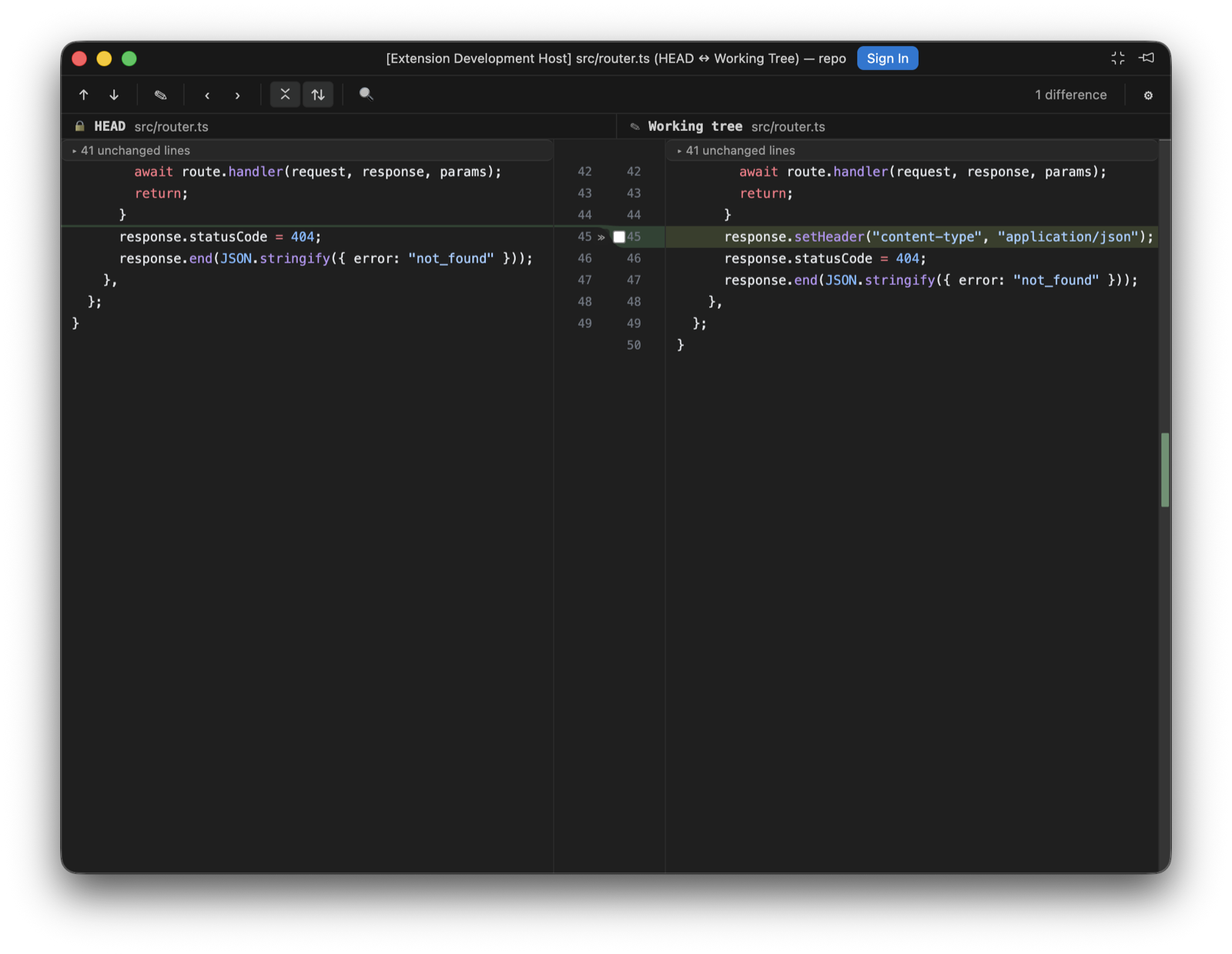
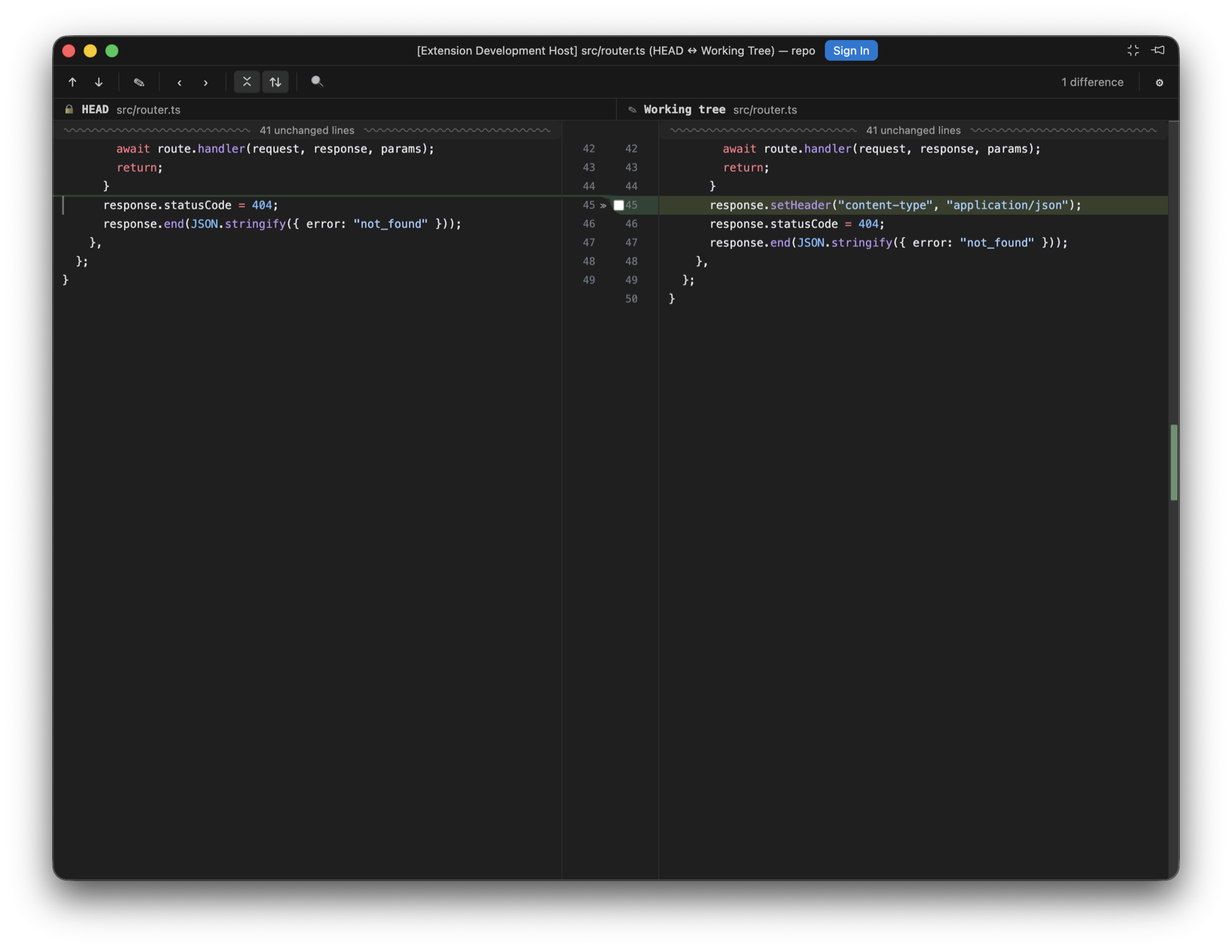
docs: recapture the diff viewer screenshots on 0.10.0
The settings, unified and working-tree windows showed the old "N unchanged
lines" fold row; all three are recaptured from 0.10.0 with the wavy separators
and the carets. The hover and fold-row figures move from bare webview crops to
the same floating-window style, and the changelog tool's default CHANGELOG path
follows the repository's rename to porcelain.

Changed region(s): [[0.0312, 0.0308, 0.9688, 0.9546], [0.5, 0.3079, 0.5312, 0.3387]]

diff --git a/changelog.html b/changelog.html
@@ -7,7 +7,7 @@ title: Changelog
 <p>Every release, newest first. Versions follow SemVer, and until 1.0 a minor version may still rename a setting or a command. The <code>.vsix</code> for each version is attached to its GitHub release. Porcelain took its identity at 0.7.0 and its name at 0.8.0; the releases before that are the fork's lineage as BranchShift and JetGit Plus, kept below the fold.</p>
 <div class="cl-links"><span class="cl-now">Current <b>0.10.0</b> · 15 September 2026</span><a href="https://marketplace.visualstudio.com/items?itemName=sultanofcardio.porcelain">Marketplace<span>↗</span></a><a href="https://github.com/sultanofcardio/porcelain/releases">Releases and .vsix downloads<span>↗</span></a><a href="https://github.com/sultanofcardio/porcelain/blob/main/CHANGELOG.md">CHANGELOG.md on main<span>↗</span></a></div>
 <div class="cl-timeline">
-<div class="cl-release latest"><span class="cl-dot"></span><div class="cl-card"><div class="cl-head"><span class="cl-ver">0.10.0</span><span class="badge gold">Latest</span><time>15 September 2026</time></div><div class="cl-kind added">Added</div><ul><li><strong>A caret in every diff pane.</strong> the porcelain diff surface now carries a caret on each side, read-only revisions included. It starts on the file&#x27;s first changed line, moves to wherever you click, and walks with the arrow keys, Home, End and the page keys, in the split panes and the unified view alike. A vertical move steps over a collapsed run and lands on the first visible line past it, the way IntelliJ&#x27;s caret passes a fold; the run stays collapsed (#3)</li><li><strong>A diff opens on its first change.</strong> a first difference below the fold is scrolled into view when the file opens, the way the change stepper would bring it. This happens once per document, so a reload of the diff on screen, quiet or asked for at the banner, keeps both the view and the carets where they were (#3)</li><li><strong>The diff viewer follows <code>files.autoSave</code>.</strong> the editable working-tree side now saves the way the setting says, in all four of its modes: <code>afterDelay</code> writes once the buffer has been quiet for <code>files.autoSaveDelay</code>, <code>onFocusChange</code> writes when the editor loses focus, <code>onWindowChange</code> when the window does, and <code>off</code> keeps Cmd+S as the only way to disk. Flipping the setting takes effect in an open diff. Autosave never writes while an IME composition is in flight, and it pauses while the changed-on-disk banner is asking which copy wins; a keystroke typed while a write is in flight stays dirty and goes out with the next save. The dirty dot keeps its meaning and its tooltip names the mode, and a save that fails says so in a banner instead of retrying on its own (#3)</li><li><strong>Hover and go to definition in the diff viewer.</strong> resting the pointer on a symbol shows the language server&#x27;s hover, rendered from its markdown the way the editor&#x27;s own hover widget renders it, with fenced code coloured. Holding Cmd (Ctrl elsewhere) underlines a symbol that has a definition, and a click on it, or F12 from the caret, opens the definition in the native editor, with a pick when there are several; Cmd+K Cmd+I shows the hover at the caret. <code>editor.hover.enabled</code> and <code>editor.hover.delay</code> apply. The working tree is asked about as the file on disk, history and index sides through their <code>porcelain:</code> documents, where the built-in JSON, CSS and HTML servers answer and TypeScript&#x27;s does not. A side with unsaved edits stays quiet until the next save, and says so once when autosave is off (#3)<figure class="cl-shot"><img src="assets/images/diff-hover.png" alt="The hover in a diff: the TypeScript server&#x27;s signature and docs, with the go-to-definition hint at the foot."><figcaption>The hover in a diff: the TypeScript server&#x27;s signature and docs, with the go-to-definition hint at the foot.</figcaption></figure></li><li><strong>Fold rows name their scope.</strong> a collapsed run&#x27;s wavy row now carries the function or class its hidden lines start in, read from the document&#x27;s symbol outline, ahead of the count, the way IntelliJ labels a fold. The merge editor&#x27;s rows keep the count alone (#3)<figure class="cl-shot"><img src="assets/images/diff-fold-row.png" alt="Collapsed runs on both sides, each separator naming the scope its hidden lines start in."><figcaption>Collapsed runs on both sides, each separator naming the scope its hidden lines start in.</figcaption></figure></li></ul><div class="cl-kind changed">Changed</div><ul><li><strong>Edit Source opens the file at the caret.</strong> the button used to open the working file at its top; it now opens on the caret&#x27;s line and column, and writes any unsaved working-tree edits to disk first, so the line it lands on is the line the diff was showing. When VS Code reloads an already-open document from disk behind that write, the caret is placed again once the reload has landed (#3)</li><li><strong>Unchanged runs open in stages.</strong> the fold row in the diff viewer and the merge editor is now a wavy separator carrying the hidden count, and a click opens the run the way IntelliJ does: 4 lines, then 8 more, then the rest, always from the end nearest the caret, so the separator moves away from where you are reading. Hovering the row tints the edge the lines will appear on. A run opening above a visible caret scrolls the view along with it, so the line under the caret stays where it was on screen; a caret off screen is left alone, so a click on a separator never moves what you are looking at. The toolbar&#x27;s collapse toggle re-collapses partly opened runs along with expanded ones, and a caret caught inside a run moves to the nearest line still on show (#3)</li></ul></div></div>
+<div class="cl-release latest"><span class="cl-dot"></span><div class="cl-card"><div class="cl-head"><span class="cl-ver">0.10.0</span><span class="badge gold">Latest</span><time>15 September 2026</time></div><div class="cl-kind added">Added</div><ul><li><strong>A caret in every diff pane.</strong> the porcelain diff surface now carries a caret on each side, read-only revisions included. It starts on the file&#x27;s first changed line, moves to wherever you click, and walks with the arrow keys, Home, End and the page keys, in the split panes and the unified view alike. A vertical move steps over a collapsed run and lands on the first visible line past it, the way IntelliJ&#x27;s caret passes a fold; the run stays collapsed (#3)</li><li><strong>A diff opens on its first change.</strong> a first difference below the fold is scrolled into view when the file opens, the way the change stepper would bring it. This happens once per document, so a reload of the diff on screen, quiet or asked for at the banner, keeps both the view and the carets where they were (#3)</li><li><strong>The diff viewer follows <code>files.autoSave</code>.</strong> the editable working-tree side now saves the way the setting says, in all four of its modes: <code>afterDelay</code> writes once the buffer has been quiet for <code>files.autoSaveDelay</code>, <code>onFocusChange</code> writes when the editor loses focus, <code>onWindowChange</code> when the window does, and <code>off</code> keeps Cmd+S as the only way to disk. Flipping the setting takes effect in an open diff. Autosave never writes while an IME composition is in flight, and it pauses while the changed-on-disk banner is asking which copy wins; a keystroke typed while a write is in flight stays dirty and goes out with the next save. The dirty dot keeps its meaning and its tooltip names the mode, and a save that fails says so in a banner instead of retrying on its own (#3)</li><li><strong>Hover and go to definition in the diff viewer.</strong> resting the pointer on a symbol shows the language server&#x27;s hover, rendered from its markdown the way the editor&#x27;s own hover widget renders it, with fenced code coloured. Holding Cmd (Ctrl elsewhere) underlines a symbol that has a definition, and a click on it, or F12 from the caret, opens the definition in the native editor, with a pick when there are several; Cmd+K Cmd+I shows the hover at the caret. <code>editor.hover.enabled</code> and <code>editor.hover.delay</code> apply. The working tree is asked about as the file on disk, history and index sides through their <code>porcelain:</code> documents, where the built-in JSON, CSS and HTML servers answer and TypeScript&#x27;s does not. A side with unsaved edits stays quiet until the next save, and says so once when autosave is off (#3)<figure class="cl-shot"><img src="assets/images/diff-hover.png" alt="The hover in a diff: the TypeScript server&#x27;s signature and docs."><figcaption>The hover in a diff: the TypeScript server&#x27;s signature and docs.</figcaption></figure></li><li><strong>Fold rows name their scope.</strong> a collapsed run&#x27;s wavy row now carries the function or class its hidden lines start in, read from the document&#x27;s symbol outline, ahead of the count, the way IntelliJ labels a fold. The merge editor&#x27;s rows keep the count alone (#3)<figure class="cl-shot"><img src="assets/images/diff-fold-row.png" alt="Collapsed runs on both sides, each separator naming the scope its hidden lines start in."><figcaption>Collapsed runs on both sides, each separator naming the scope its hidden lines start in.</figcaption></figure></li></ul><div class="cl-kind changed">Changed</div><ul><li><strong>Edit Source opens the file at the caret.</strong> the button used to open the working file at its top; it now opens on the caret&#x27;s line and column, and writes any unsaved working-tree edits to disk first, so the line it lands on is the line the diff was showing. When VS Code reloads an already-open document from disk behind that write, the caret is placed again once the reload has landed (#3)</li><li><strong>Unchanged runs open in stages.</strong> the fold row in the diff viewer and the merge editor is now a wavy separator carrying the hidden count, and a click opens the run the way IntelliJ does: 4 lines, then 8 more, then the rest, always from the end nearest the caret, so the separator moves away from where you are reading. Hovering the row tints the edge the lines will appear on. A run opening above a visible caret scrolls the view along with it, so the line under the caret stays where it was on screen; a caret off screen is left alone, so a click on a separator never moves what you are looking at. The toolbar&#x27;s collapse toggle re-collapses partly opened runs along with expanded ones, and a caret caught inside a run moves to the nearest line still on show (#3)</li></ul></div></div>
 <div class="cl-release"><span class="cl-dot"></span><div class="cl-card"><div class="cl-head"><span class="cl-ver">0.9.1</span><time>6 September 2026</time></div><div class="cl-kind fixed">Fixed</div><ul><li><strong>Horizontal scrolling in the diff viewer and merge editor.</strong> long lines were cut off at the pane edge with no way to reach the rest. Every pane now scrolls sideways on its own; the two sides stay in lockstep under Synchronise scrolling and snap back together when it is switched on again, and the merge editor&#x27;s three panes always move as one. The working-tree editor keeps its caret in place while scrolled and follows it on End and Home, find stepping brings a match into view sideways, and the unified view&#x27;s line numbers and fold labels stay put while the text scrolls under them. Left and Right on the focused diff scroll the pane</li><li><strong>Decoupled scrolling no longer leaks into the shared axis.</strong> with Synchronise scrolling off, a wheel over the left pane moved the right pane as well; the left pane now owns both of its axes</li></ul></div></div>
 <div class="cl-release"><span class="cl-dot"></span><div class="cl-card"><div class="cl-head"><a class="cl-ver" href="https://github.com/sultanofcardio/porcelain/releases/tag/v0.9.0">0.9.0</a><time>3 September 2026</time><a class="cl-compare" href="https://github.com/sultanofcardio/porcelain/compare/v0.8.0...v0.9.0">Compare on GitHub<span>↗</span></a></div><div class="cl-kind added">Added</div><ul><li><strong>Search modes on the log filter.</strong> the commit search gains IntelliJ-style Match Case (<code>Cc</code>) and Regex (<code>.*</code>) toggles. Search is now literal and case-insensitive by default; it used to be handed to <code>git log --grep</code> raw, which silently treated every query as a case-sensitive regex — searching <code>f.x</code> matched <code>fax</code><figure class="cl-shot"><img src="assets/images/log-branch-filter.png" alt="The log toolbar: search with the Cc and .* toggles, and the multi-select Branch filter."><figcaption>The log toolbar: search with the Cc and .* toggles, and the multi-select Branch filter.</figcaption></figure></li><li><strong>Custom date range.</strong> the Date filter&#x27;s dropdown adds an After/Before date pair alongside the presets, sent to git as inclusive day bounds</li><li><strong>Whole-history author filter.</strong> the User dropdown now lists every author in the repository (via <code>git shortlog</code>), most-commits first, with the configured <code>user.name</code> pinned to the top as &quot;(me)&quot;. It used to offer only authors present in the loaded page</li><li><strong>Collapse / Expand Linear Branches.</strong> the log&#x27;s View Options menu can now collapse every collapsible linear run in one action, and expand them all back, matching the per-fragment click collapse</li><li><strong>&quot;In N branches&quot;.</strong> the details pane for a single selected commit shows which local and remote branches contain it, loaded lazily with Show all / Hide</li><li><strong>Paths filter.</strong> a Paths toolbar filter narrows the log to commits touching the given files or folders (one pathspec per line), alongside the file-history chip</li><li><strong>Go to hash / branch / tag.</strong> a toolbar action (and ⌘G/Ctrl+G) opens a popup with branch/tag completion; free text resolves as a full or abbreviated commit hash and the log navigates to it, clearing any filters that would hide it<figure class="cl-shot"><img src="assets/images/log-goto.png" alt="Go to, filtering tags as you type."><figcaption>Go to, filtering tags as you type.</figcaption></figure></li><li><strong>Graph modes.</strong> View Options gains Sort Topologically, First Parent Only, and No Merge Commits, mapped to git&#x27;s <code>--topo-order</code>, <code>--first-parent</code>, and <code>--no-merges</code><figure class="cl-shot"><img src="assets/images/log-view-options.png" alt="View Options: graph modes, highlighters and presentation toggles."><figcaption>View Options: graph modes, highlighters and presentation toggles.</figcaption></figure></li><li><strong>Long-edge stubs.</strong> edges spanning more than 30 rows collapse into a pair of arrow stubs, IntelliJ style; clicking a stub jumps to the edge&#x27;s other end. &quot;Show Long Edges&quot; restores full drawing</li><li><strong>Highlighters.</strong> My Commits (emphasizes commits by the configured <code>user.name</code>), Dim Merge Commits, and Fade Other Branches (the existing reachability dimming, now toggleable), all persisted</li><li><strong>Presentation toggles.</strong> Compact References (first label + &quot;+N&quot;), Tag Names on/off, and Commit Timestamp (committer date instead of author date, now carried by the log format)</li><li><strong>Multi-commit cherry-pick.</strong> selecting several commits offers &quot;Cherry-Pick N Commits&quot;, applied oldest-first in one <code>git cherry-pick</code> invocation so the existing conflict banner covers a mid-sequence stop</li><li><strong>Worktrees.</strong> a Worktrees command lists linked working trees with their branch and state (main, locked, prunable), opens one in a new window, creates one on a new branch, removes one (offering force when git refuses), and prunes records whose directories are gone<figure class="cl-shot"><img src="assets/images/worktrees.png" alt="Worktrees…: the list, then New worktree… and Prune stale records."><figcaption>Worktrees…: the list, then New worktree… and Prune stale records.</figcaption></figure></li><li><strong>Git Operations popup.</strong> ⌘⌥G / Ctrl+Alt+G opens a quick list of the verbs reached for most: commit, push, update, search commits, blame, resolve conflicts, and worktrees. IntelliJ puts this on Alt+`<figure class="cl-shot"><img src="assets/images/git-operations.png" alt="The Git Operations popup."><figcaption>The Git Operations popup.</figcaption></figure></li><li><strong>Search Commits.</strong> find a commit by message or by hash from the palette, then copy its revision</li><li><strong>Diff ignore policies.</strong> the whitespace menu grows from two options to IntelliJ&#x27;s four: do not ignore, ignore leading and trailing, ignore whitespaces, and ignore whitespaces and empty lines. The last two compare normalized copies of both sides, so re-indenting and re-wrapping stop reading as changes while the chunks still address the real lines<figure class="cl-shot"><img src="assets/images/diff-settings-window.png" alt="The diff settings menu, with the four whitespace policies."><figcaption>The diff settings menu, with the four whitespace policies.</figcaption></figure></li><li><strong>Apply non-conflicting changes and Resolve automatically.</strong> two merge-toolbar actions. The first takes every region only one side actually changed, which loses nothing by definition. The second combines both sides wherever their edits touch different base lines, and deliberately leaves anything overlapping for you: a region where both sides rewrote the same line is never auto-merged</li><li><strong>Blame.</strong> &quot;Annotate with Git Blame&quot; in the editor context menu draws an author-and-date column beside every line, with a hover carrying the commit&#x27;s subject, author, date, and short hash. Blame Options chooses how lines are coloured (by age, by author, or not at all), how names are written (initials, full name, or email), whether whitespace-only changes are ignored, and whether moved lines are followed within a file or across files. Uncommitted lines are marked as such rather than attributed to anyone<figure class="cl-shot"><img src="assets/images/blame.png" alt="Annotate with Git Blame: initials and date per line, shaded by age, and the hover card."><figcaption>Annotate with Git Blame: initials and date per line, shaded by age, and the hover card.</figcaption></figure></li><li><strong>Protected branches.</strong> <code>porcelain.push.protectedBranches</code> (regular expressions, defaulting to <code>main</code> and <code>master</code>) refuses a force push outright instead of confirming it. Force push already used <code>--force-with-lease</code>, which declines when the remote moved in a way porcelain has not seen; the protected list is the guard in front of that</li><li><strong>Update Project.</strong> one action that fetches and then brings the current branch up to date by merge or rebase, per <code>porcelain.update.method</code>, carrying uncommitted work across with an autostash and reporting the commits that arrived. <code>porcelain.fetch.tags</code> chooses whether tags come along</li><li><strong>Push options and sync counts.</strong> set upstream while pushing a new branch, push tags, and skip pre-push hooks; incoming and outgoing counts per branch are read from already-fetched refs, so they cost no network round-trip<figure class="cl-shot"><img src="assets/images/push-panel.png" alt="The push panel, with the options under the Push dropdown."><figcaption>The push panel, with the options under the Push dropdown.</figcaption></figure></li><li><strong>Per-hunk staging.</strong> individual hunks can be staged and unstaged: porcelain parses the file&#x27;s diff, rebuilds a patch from just the chosen hunks (renumbering the ones that follow a skipped hunk), and lets git apply it with context still verified, so a file that changed underneath refuses rather than applying in the wrong place. A change can also be addressed by its line range rather than by hunk, which is how the diff surface reaches exactly the block pointed at: git merges changes closer together than its context width into one hunk, so addressing by hunk would take neighbouring blocks with it<figure class="cl-shot"><img src="assets/images/diff-working-tree-window.png" alt="A working-tree diff from the Commit view: the gutter checkbox is the hunk&#x27;s inclusion."><figcaption>A working-tree diff from the Commit view: the gutter checkbox is the hunk&#x27;s inclusion.</figcaption></figure></li><li><strong>Commit options.</strong> Sign-off beside Amend, plus a commit-options panel with Skip commit hooks and an Author override (rejected before reaching git if it looks like an option). An empty commit message is seeded from <code>commit.template</code>, or from git&#x27;s own <code>MERGE_MSG</code> while a merge is in progress</li><li><strong>Stash options and .gitignore.</strong> stash with keep-index, include-untracked, and a message; turn a stash into a branch; and add a path to <code>.gitignore</code> without duplicating an entry that is already there<figure class="cl-shot"><img src="assets/images/stash-tab.png" alt="The Stash tab."><figcaption>The Stash tab.</figcaption></figure></li><li><strong>Interactive rebase editor.</strong> &quot;Interactively Rebase from Here...&quot; on a commit opens a Rebasing Commits table: pick / reword / stop-to-edit / squash / fixup / drop per commit, inline message editing for reword and squash, move up/down to reorder, Reset to restore the loaded plan, and View Git Commands to read the exact <code>git-rebase-todo</code> before starting. Porcelain drives real <code>git rebase -i</code> through <code>GIT_SEQUENCE_EDITOR</code>, so hooks, rerere, and the merge machinery behave exactly as git intends; a conflict stops in the existing continue/abort/skip banner<figure class="cl-shot"><img src="assets/images/interactive-rebase.png" alt="Rebasing Commits."><figcaption>Rebasing Commits.</figcaption></figure></li><li><strong>Reword, Squash, Fixup, Undo Commit.</strong> edit any commit&#x27;s message (an amend at HEAD, a reword rebase below it), fold a multi-selection into one commit under a combined message, commit the working tree as a <code>fixup!</code> of a chosen commit, and undo the tip commit while keeping its changes staged. All are disabled while another Git operation is in progress, with the reason shown</li><li><strong>Branch and tag verbs.</strong> smart checkout (stash → switch → restore) when local changes block a swap, force-delete that first names the commits it would discard, reset-to-upstream on the checked-out branch, and a Recent section in the branch tree read from the reflog. Tags gain Checkout, Push Tag, Delete Tag, and Delete Tag on Remote, with the remote-bound pair disabled when the repository has no remote</li><li><strong>Manage Remotes.</strong> a Name/URL table for adding, renaming, re-pointing, and removing remotes, reachable from the branch pane&#x27;s settings menu. Remote names and URLs that look like git options are rejected before they reach the command line<figure class="cl-shot"><img src="assets/images/manage-remotes.png" alt="Manage Remotes."><figcaption>Manage Remotes.</figcaption></figure></li><li><strong>Clean Up Branches.</strong> a table of local branches with last-commit date, tracked branch, and merge status, filtered by a directory-style prefix; merged branches are pre-selected and unmerged ones are only ever deleted with an explicit, counted force<figure class="cl-shot"><img src="assets/images/cleanup-branches.png" alt="Clean Up Branches, merged branches pre-selected."><figcaption>Clean Up Branches, merged branches pre-selected.</figcaption></figure></li><li><strong>Multi-branch filter.</strong> the Branch filter is now multi-select: the dropdown stays open while combining branches with checkboxes, and the log shows the union of everything reachable from the chosen refs, IntelliJ style. A plain click in the branch tree still replaces the filter with that one ref<figure class="cl-shot"><img src="assets/images/log-branch-filter.png" alt="The Branch filter stays open while you tick branches."><figcaption>The Branch filter stays open while you tick branches.</figcaption></figure></li><li><strong>Porcelain diff viewer.</strong> an optional JetBrains-style diff surface rendered in a webview, behind <code>porcelain.diff.viewer</code>. Paired centre gutter with each side&#x27;s own line numbers, curved Bézier connectors between changed regions, per-side revision headers, a live difference count, a change stripe with click-to-jump, and a settings menu whose options apply to that window only and are forgotten when it closes<figure class="cl-shot"><img src="assets/images/floating-diff-windows-transparent.png" alt="The diff viewer in its own window, beside the Changes window."><figcaption>The diff viewer in its own window, beside the Changes window.</figcaption></figure></li><li><strong>Per-window diff options.</strong> ignore whitespace, highlight granularity (line / word / character / off), collapse unchanged fragments and synchronised scrolling. VS Code&#x27;s <code>diffEditor.*</code> equivalents are global settings, so these have no native counterpart</li><li><strong>Unified view.</strong> the settings menu can switch the diff from side-by-side to a single-column unified layout: old lines then new lines for each change, folds and find included. Modified lines keep their modified colouring on both halves rather than posing as removed/added — an edited line is not an addition. Sync-scroll controls hide in unified mode (one column has nothing to synchronise), and single-file layouts for added or deleted files ignore the toggle<figure class="cl-shot"><img src="assets/images/diff-unified-window.png" alt="The unified layout."><figcaption>The unified layout.</figcaption></figure></li></ul><div class="cl-kind changed">Changed</div><ul><li><strong>3-way merge editor rebuilt on the diff stack.</strong> the merge editor is now three Porcelain diff panes on one shared scroll axis, in the IDEA order: yours on the left, the editable result in the middle, theirs on the right. <code>node-diff3</code> runs once to seed the result buffer and the conflict regions; every accept, revert or keystroke after that is a splice into the result followed by a re-derive of the two live pair diffs. The verbs ride the gutter connectors — accept (<code>≫</code>/<code>≪</code>), ignore, revert to base, with accept-both reachable IntelliJ-style — the result pane is a real editor built from scratch — click anywhere and type, with selection, clipboard, IME composition and word movement, and typing inside a conflict resolves it — and a single undo/redo timeline covering typed edits and gutter verbs alike, conflict stepping, collapse of unchanged regions and per-pane find come with the shared stack. Conflict colouring follows each side&#x27;s own state rather than the live diff, in every decision state: a still-takeable side stays red with its connector tapering to the exact row an accept would splice at, while a side that landed — or a conflict resolved by typing — goes quietly green. Apply stays disabled until every conflict is resolved. The legacy merge editor is replaced outright; unlike the diff viewer, this is not gated by <code>porcelain.diff.viewer</code><figure class="cl-shot"><img src="assets/images/merge-conflicts-3-way-resolution.png" alt="Yours, Result, Theirs, with the verbs on the gutter connectors."><figcaption>Yours, Result, Theirs, with the verbs on the gutter connectors.</figcaption></figure></li><li><strong>Diff titles carry position and both revisions.</strong> a diff is now titled <code>panel-store.ts · 3 of 7 · 07748ba ↔ af89dd2</code>. File-stepper position used to be reported through a transient status-bar message, which the compact floating diff window never shows</li><li><strong><code>Next File Diff</code> / <code>Previous File Diff</code> renamed</strong> to <code>Next File</code> / <code>Previous File</code></li></ul><div class="cl-kind fixed">Fixed</div><ul><li><strong>Independent scrolling when synchronised scrolling is off.</strong> the left pane was pinned to the top of the file, so only the right side ever moved. Each pane now scrolls on its own, seeded from wherever it already was so switching the toggle never makes the view jump</li><li><strong>A stalled pane holds its anchor mid-window.</strong> scrolling through a large insertion froze the other side with the insertion point at the very top, pushing every line before it off screen. The stalled side is now lifted so its anchor sits in the middle of the pane, easing in and out at the edges of the gap, the way IntelliJ does it</li><li><strong>The merge Result pane shows zero-height conflicts.</strong> when both sides add where the base had nothing, the region occupies no rows in the result, so neither the row colouring nor the pair-diff anchors had anything to draw and the middle pane showed nothing at all. The region now draws its own rule straight through the result, in its own colour</li><li><strong>Dead palette commands removed.</strong> five <code>porcelain.commitPanel.*</code> commands were declared but never registered, so they appeared in the Command Palette and failed when invoked</li><li><strong>Refresh icon has a home.</strong> the Git Log view&#x27;s title menu was an empty contribution, leaving the declared refresh action unreachable</li><li><strong>Branch and tag names no longer truncated in diff titles.</strong> the title shortened every ref with a blind <code>substring(0, 7)</code>, turning <code>feature/long-name</code> into <code>feature</code>. Only actual object names are abbreviated now</li><li><strong>Unsupported languages are no longer highlighted as TypeScript.</strong> the merge editor fell back to TypeScript&#x27;s grammar for anything outside the six Shiki loads, colouring Go, Python and YAML with confidently wrong rules. The diff viewer and the rebuilt merge editor fall back to plain text instead</li></ul><div class="cl-kind notes">Notes</div><ul><li>The Porcelain diff viewer is now the <strong>default</strong>; <code>porcelain.diff.viewer: native</code> restores VS Code&#x27;s own diff editor. Working-tree diffs route to the Porcelain viewer too — the working-tree side is a real editor built on the same core as the merge result pane (click anywhere and type, with selection, clipboard, IME composition and one coalescing undo/redo timeline), and Cmd+S/Ctrl+S saves to disk (a dirty dot marks unsaved edits, and a banner offers reload-or-keep if the file changes on disk underneath). Index and historical sides stay read-only, and Edit Source remains the way to the real file. Binary and image diffs and very large text diffs show an in-viewer placeholder with an <strong>Open in editor</strong> action (images up to 10 MB per side render side by side, heavier ones degrade to the placeholder with both sizes; oversized text offers Show anyway). Find, keyboard navigation and the screen-reader story are all in place</li></ul></div></div>
 <div class="cl-release"><span class="cl-dot"></span><div class="cl-card"><div class="cl-head"><a class="cl-ver" href="https://github.com/sultanofcardio/porcelain/releases/tag/v0.8.0">0.8.0</a><span class="badge blue">Rename</span><time>26 August 2026</time></div><div class="cl-kind changed">Changed</div><ul><li><strong>Renamed to Porcelain.</strong> the extension ID is now <code>sultanofcardio.porcelain</code>, commands are <code>porcelain.*</code>, the setting is <code>porcelain.diff.openIn</code>, and the content URI scheme is <code>porcelain:</code>. Named for Git&#x27;s own word for the user-facing layer over its plumbing, and chosen to carry no implication of affiliation with JetBrains</li><li><strong>New icon.</strong> the mark is now a P drawn as a branch leaving the trunk and merging back, with a commit node at the merge</li></ul><div class="cl-kind added">Added</div><ul><li><strong>Third-party notices.</strong> <code>THIRD-PARTY-NOTICES.md</code> ships in the package, carrying the Apache 2.0 notice for the bundled JetBrains icons, the CC BY 4.0 attribution for Codicons, and the license text of all 59 bundled npm packages</li></ul></div></div>

diff --git a/diffs.html b/diffs.html
@@ -36,15 +36,15 @@ title: Diffs
 
         <h2 id="hover">Hover and go to definition</h2>
         <figure>
-          <img src="assets/images/diff-hover.png" alt="A HEAD versus working tree diff of router.ts. On the working-tree side a hover card sits under response.setHeader with the TypeScript signature, the method's documentation and its @param lines, and a footer reading: ⌘ click to go to definition · F12 from the caret. Both panes show a collapsed run whose separator reads Handler, 38 unchanged lines.">
-          <figcaption>The hover in a diff: the TypeScript server's signature and docs, with the go-to-definition hint at the foot.</figcaption>
+          <img src="assets/images/diff-hover.png" alt="A HEAD versus working tree diff of router.ts in its own window. On the working-tree side a hover card sits under response.setHeader with the TypeScript signature, the method's documentation and its @param lines. Both panes show a collapsed run whose separator reads Handler, 38 unchanged lines.">
+          <figcaption>The hover in a diff: the TypeScript server's signature and docs.</figcaption>
         </figure>
         <p>Rest the pointer on a symbol and the language server's hover appears, rendered from its markdown the way the editor's own hover widget renders it, fenced code coloured. Hold <kbd>⌘</kbd> (<kbd>Ctrl</kbd> elsewhere) and a symbol with a definition underlines; click it, or press <kbd>F12</kbd> from the caret, and the definition opens in the native editor, with a pick when there are several. <span class="keys"><kbd>⌘</kbd><kbd>K</kbd></span> <span class="keys"><kbd>⌘</kbd><kbd>I</kbd></span> shows the hover at the caret. <code>editor.hover.enabled</code> and <code>editor.hover.delay</code> apply, since these are VS Code's own providers answering.</p>
         <p>The working tree is asked about as the file on disk. History and index sides go through their <code>porcelain:</code> documents, where the built-in JSON, CSS and HTML servers answer and TypeScript's doesn't, so a <code>.ts</code> file's HEAD side stays quiet. A side with unsaved edits stays quiet too, until the next save: the server sees the file on disk, and positions would disagree with what you're looking at. With autosave off it says so once.</p>
 
         <h2 id="unchanged-runs">Unchanged runs</h2>
         <figure>
-          <img src="assets/images/diff-fold-row.png" alt="The top of a split diff of router.ts. Under the first few lines on each side a wavy separator reads Handler, 38 unchanged lines, and the visible lines continue below it.">
+          <img src="assets/images/diff-fold-row.png" alt="A HEAD versus working tree diff of router.ts in its own window, with two differences. Under the first lines on each side a wavy separator reads Handler, 38 unchanged lines, and the changed lines follow below it, each pane with its caret.">
           <figcaption>Collapsed runs on both sides, each separator naming the scope its hidden lines start in.</figcaption>
         </figure>
         <p>With <strong>Collapse unchanged fragments</strong> on, a long unchanged run folds behind a wavy separator carrying the hidden count and, read from the document's symbol outline, the function or class the hidden lines start in, the way IntelliJ labels a fold. A click opens the run in stages: 4 lines, then 8 more, then the rest, always from the end nearest the caret, so the separator moves away from where you're reading. Hovering the row tints the edge the lines will appear on.</p>

diff --git a/_tools/changelog.py b/_tools/changelog.py
@@ -4,7 +4,7 @@ import os
 import re
 from datetime import date
 
-SRC = os.environ.get("CHANGELOG", os.path.join(os.path.dirname(os.path.abspath(__file__)), "..", "..", "idea-git", "CHANGELOG.md"))
+SRC = os.environ.get("CHANGELOG", os.path.join(os.path.dirname(os.path.abspath(__file__)), "..", "..", "porcelain", "CHANGELOG.md"))
 REPO = "https://github.com/sultanofcardio/porcelain"
 TAGS = {"v0.8.0", "v0.9.0"}  # tags that exist on GitHub
 CJK = re.compile(r"[　-鿿＀-￯]")
@@ -18,7 +18,7 @@ SHOTS = {
     "Multi-branch filter": ("log-branch-filter", "The Branch filter stays open while you tick branches."),
     "Worktrees": ("worktrees", "Worktrees…: the list, then New worktree… and Prune stale records."),
     "Git Operations popup": ("git-operations", "The Git Operations popup."),
-    "Hover and go to definition in the diff viewer": ("diff-hover", "The hover in a diff: the TypeScript server's signature and docs, with the go-to-definition hint at the foot."),
+    "Hover and go to definition in the diff viewer": ("diff-hover", "The hover in a diff: the TypeScript server's signature and docs."),
     "Fold rows name their scope": ("diff-fold-row", "Collapsed runs on both sides, each separator naming the scope its hidden lines start in."),
     "Diff ignore policies": ("diff-settings-window", "The diff settings menu, with the four whitespace policies."),
     "Blame": ("blame", "Annotate with Git Blame: initials and date per line, shaded by age, and the hover card."),

diff --git a/_tools/README.md b/_tools/README.md
@@ -4,6 +4,6 @@ Two pages are generated; everything else is hand-edited HTML.
 
 - `features.py` is the roadmap's inventory: eight areas, four tiers, one line per feature with its stage (`done`, `v1`, `after`, `never`). Rank is importance, so the before-1.0 rows all sit above the seam; `build.py` asserts that.
 - `mockkit.py` and `mocks.py` are the VS Code mock kit and the one mock per unimplemented feature, keyed by the feature's exact name. `build.py` refuses to run if a `v1` or `after` feature has no mock, or a mock has no feature.
-- `changelog.py` renders `CHANGELOG.md` from `main` (Keep a Changelog, with the pre-0.7.0 bilingual entries reduced to their English halves) into the timeline. `SHOTS` maps a release entry to the screenshot shown under it. Point `CHANGELOG` at the file; it defaults to a sibling `idea-git` checkout.
+- `changelog.py` renders `CHANGELOG.md` from `main` (Keep a Changelog, with the pre-0.7.0 bilingual entries reduced to their English halves) into the timeline. `SHOTS` maps a release entry to the screenshot shown under it. Point `CHANGELOG` at the file; it defaults to a sibling `porcelain` checkout.
 - `build.py` writes `roadmap.html` and `changelog.html`. The release workflow on `main` runs it after every publish so the changelog page never needs a hand edit.
 - `preview.py` renders every page with the layout into `_preview/` for a local look without Jekyll.
